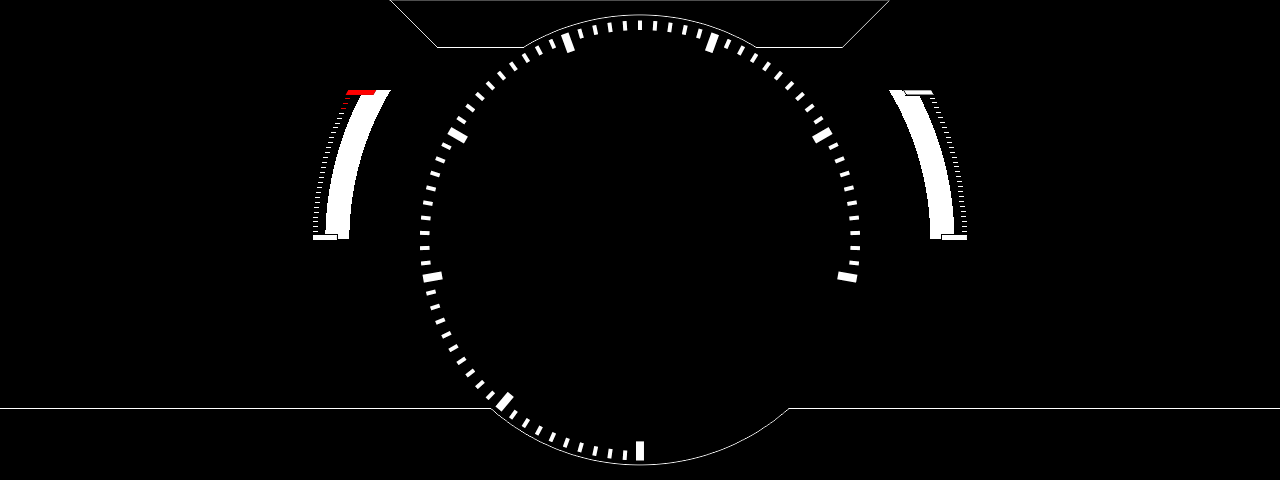
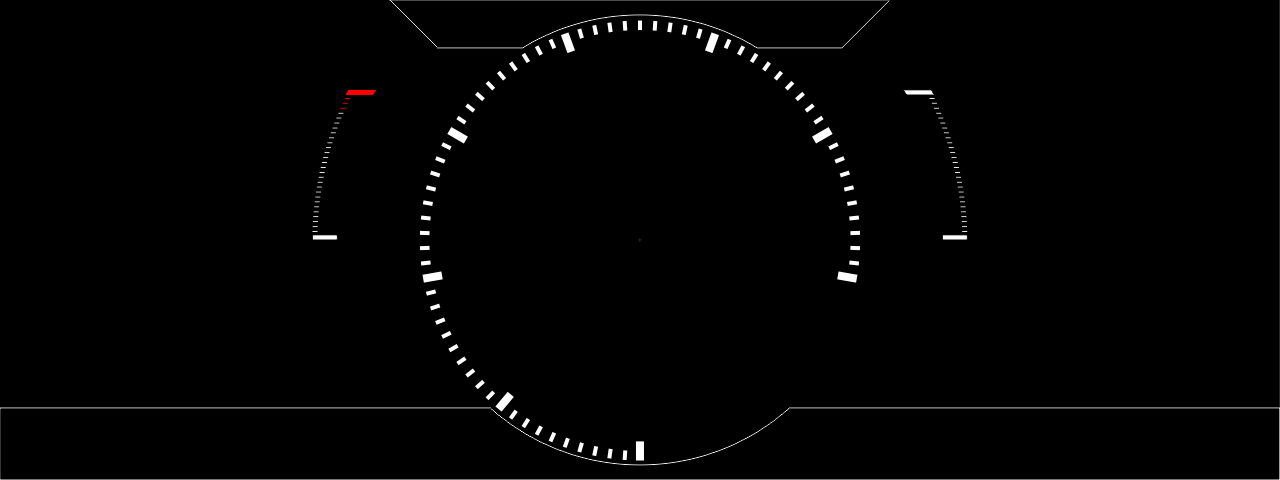
-

diff --git a/main.qml b/main.qml
@@ -15,7 +15,7 @@ Window {
     property variant sourceData: [238,0,0,0,0,0,0,0,0,0,0,0,0,0,0,0,0,0,0,0,0,0,255]
 //                                                                       1 1 1 1 1 1 1 1 1 1 2 2 2
 //                                 0  1    2   3   4  5     6     7  8 9 0 1 2 3 4 5 6 7 8 9 0 1 2
-//    property variant sourceData: [238,63,2123,13.7,15,90,175571.3,23,1,1,1,1,1,1,1,1,1,1,1,1,1,1,1,255]
+//    property variant sourceData: [238,63,2123,13.7,20,90,175571.3,23,1,1,1,1,1,1,1,1,1,1,1,1,1,1,1,255]
 
     property string colorNeedle:        "red"
     property string colorBackground:    "grey"
@@ -48,26 +48,26 @@ Window {
     21  передние туманки
     */
 
-    // Coolant temp
-    ProgressBar{
-        id: coolantTemp
-        x: 323
-        y: 90
-        width: 70
-        visible: true
-        scale_value: main.sourceData[5] <= 50 ? 0 : (sourceData[5] - 50) * 1.9
-        color: main.sourceData[5] >110 ? "red" : "white"
-    }
+//    // Coolant temp
+//    ProgressBar{
+//        id: coolantTemp
+//        x: 323
+//        y: 90
+//        width: 70
+//        visible: true
+//        scale_value: main.sourceData[5] <= 50 ? 0 : (sourceData[5] - 50) * 1.9
+//        color: main.sourceData[5] >110 ? "red" : "white"
+//    }
 
-    // Fuel level
-    ProgressBar{
-        id: fuelLevel
-        x: 887
-        y: 90
-        width: 70
-        scale_value: 111
-        color: "white"
-    }
+//    // Fuel level
+//    ProgressBar{
+//        id: fuelLevel
+//        x: 887
+//        y: 90
+//        width: 70
+//        scale_value: 111
+//        color: "white"
+//    }
     Loader {
         id: loader
         asynchronous: true

diff --git a/CoolantTemp.qml b/CoolantTemp.qml
@@ -1,0 +1,42 @@
+import QtQuick 2.10
+import QtGraphicalEffects 1.0
+
+Item{
+    id: coolantTemp
+    width: 75
+    height: 150
+
+    property alias scale_value: valueBar.height
+    property alias color: valueBar.color
+
+    Rectangle {
+        id: maskObj
+        anchors.fill: parent
+        color: "black"
+
+        Rectangle {
+            id: valueBar
+            width: parent.width
+            border.width: 0
+            anchors.bottom: parent.bottom
+        }
+
+        smooth: true
+        visible: false
+    }
+
+    Image {
+        id: maskImage
+        source: "qrc:/images/maskCoolantTemp.png"
+        sourceSize: Qt.size(parent.width, parent.height)
+        smooth: true
+        visible: false
+    }
+
+    OpacityMask {
+        id: maskEffect
+        anchors.fill: parent
+        source: maskObj
+        maskSource: maskImage
+    }
+}

diff --git a/FuelLevel.qml b/FuelLevel.qml
@@ -1,0 +1,42 @@
+import QtQuick 2.10
+import QtGraphicalEffects 1.0
+
+Item{
+    id: fuelLevel
+    width: 75
+    height: 150
+
+    property alias scale_value: valueBar.height
+    property alias color: valueBar.color
+
+    Rectangle {
+        id: maskObj
+        anchors.fill: parent
+        color: "black"
+
+        Rectangle {
+            id: valueBar
+            width: parent.width
+            border.width: 0
+            anchors.bottom: parent.bottom
+        }
+
+        smooth: true
+        visible: false
+    }
+
+    Image {
+        id: maskImage
+        source: "qrc:/images/maskFuelLevel.png"
+        sourceSize: Qt.size(parent.width, parent.height)
+        smooth: true
+        visible: false
+    }
+
+    OpacityMask {
+        id: maskEffect
+        anchors.fill: parent
+        source: maskObj
+        maskSource: maskImage
+    }
+}

diff --git a/Dash.qml b/Dash.qml
@@ -16,6 +16,22 @@ Item {
         easing.type: Easing.InOutCirc
     }
 
+    // Coolant temp
+    CoolantTemp {
+        x: 322
+        y: 90
+        scale_value: main.sourceData[5] <= 50 ? 0 : (sourceData[5] - 50) * 1.9
+        color: main.sourceData[5] >110 ? "red" : "white"
+    }
+
+    //Fuel level
+    FuelLevel {
+        x: 883
+        y: 90
+        scale_value: main.sourceData[4]
+        color: "white"
+    }
+
     //Icons
     Icons {
         anchors.fill: parent
